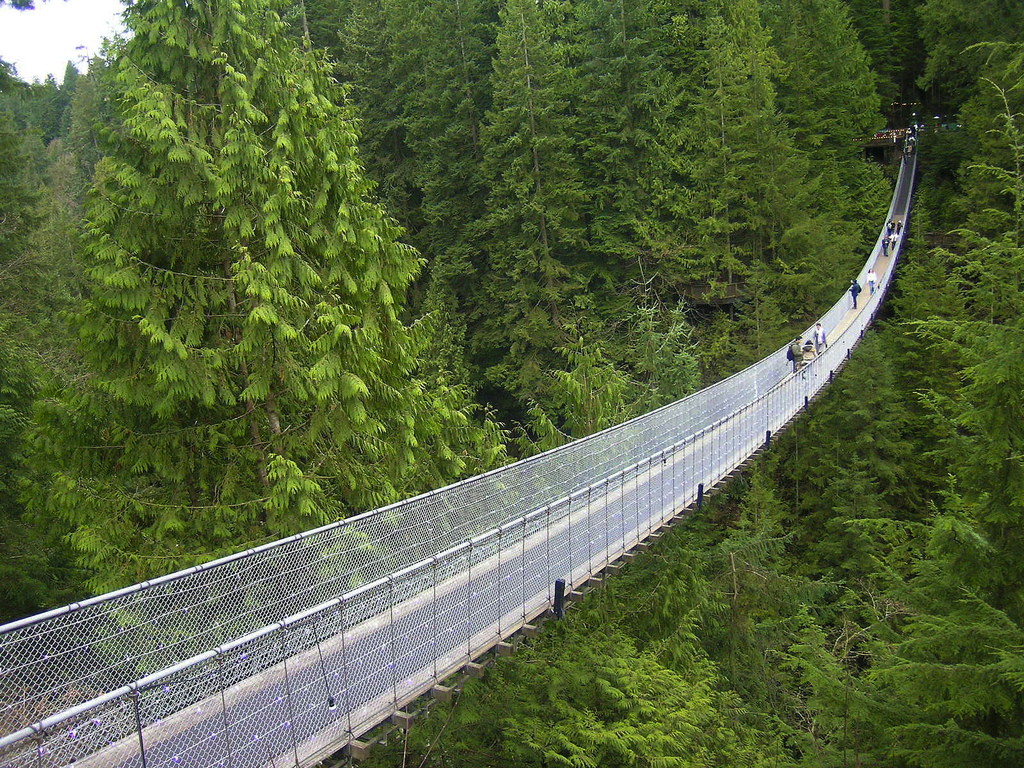
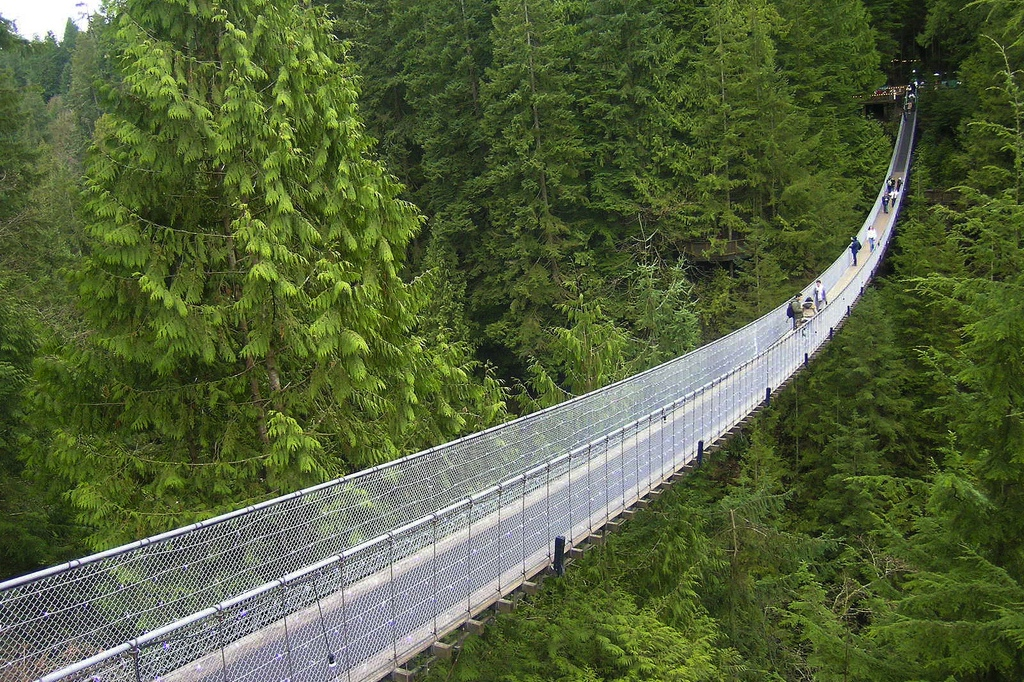
fixed image size

diff --git a/app/scripts/controllers/about.js b/app/scripts/controllers/about.js
@@ -4,7 +4,7 @@
          var imageArray = [
            {
              'title': 'Buchanan Street in Glasgow',
-             'url': 'images/buchanan_glas.jpg'
+             'url': 'images/buchanan_glas.jpg',
            },
            {
              'title': 'Capilano Suspension Bridge in Vancouver',
@@ -15,40 +15,36 @@
              'url': 'images/catstreet_tokyo.jpg'
            },
            {
-             'title': 'Stroeget in Copenhagen',
-             'url': 'images/cph2014.jpg'
+             'title': 'Essaouira, Morocco',
+             'url': 'images/CEH1NB.jpg'
            },
            {
              'title': 'Placa in Dubrovnik',
              'url': 'images/dubrovnik.jpg'
            },
            {
-             'title': 'Fez',
+             'title': 'Fez el Bali, Morocco',
              'url': 'images/fez.jpg'
            },
            {
-             'title': 'Jinli in Chengdu',
-             'url': 'images/jinli.jpg'
+             'title': 'Jinli in Chengdu, Sichuan, China',
+             'url': 'images/jinli_chengdu.jpg'
            },
            {
-             'title': 'Cat Street in Tokyo',
+             'title': 'Cat Street (Shibuya) in Tokyo',
              'url': 'images/catstreet_tokyo.jpg'
+           },
+           {
+             'title': 'Cat Street (Shibuya) in Tokyo',
+             'url': 'images/cat2.jpg'
            },
            {
              'title': 'Lynn Canyon Suspension Bridge in Vancouver',
              'url': 'images/lynncanyon_vanc.jpg'
            },
            {
-             'title': 'Jemna al Fna in Marrakech',
+             'title': 'Souk in the Medina, Marrakech',
              'url': 'images/marrakech.jpg'
-           },
-           {
-             'title': 'Plaka in Athens',
-             'url': 'images/plaka-athens.jpg'
-           },
-           {
-             'title': 'Plaka in Athens',
-             'url': 'images/plaka.jpg'
            },
            {
              'title': 'Royal Mile in Edinburgh',
@@ -59,16 +55,68 @@
              'url': 'images/simonedebeauvoir.jpg'
            },
            {
-             'title': 'Place Massena in Nice',
+             'title': 'Place Massena in Nice, France',
              'url': 'images/massena.jpg'
            },
            {
-             'title': 'Place Massena in Nice',
-             'url': 'images/massena-nice-1.jpg'
+             'title': 'Palazzo Re Enzo, Bologna',
+             'url': 'images/bologna.jpg'
            },
            {
              'title': 'Place Massena in Nice',
              'url': 'images/massena.jpg'
+           },
+            {
+              'title': 'Vienna, Austria',
+              'url': 'images/vienna.jpg'
+            },
+            {
+              'title': 'Amsterdam',
+              'url': 'images/amster.jpg'
+            },
+            {
+              'title': 'Place Massena in Nice, France',
+              'url': 'images/massena-nice-1.jpg'
+            },
+            {
+              'title': 'Khan el Khalili Bazaar, Cairo',
+              'url': 'images/cairo.jpg'
+            },
+            {
+              'title': 'Cat Street - Shibuya - Tokyo',
+              'url': 'images/cat2.jpg'
+            },
+            {
+              'title': 'The High Line, NYC',
+              'url': 'images/highline.jpg'
+            },
+            {
+              'title': 'Galata in Istanbul, Turkey',
+              'url': 'images/istanbul.jpg'
+            },
+            {
+              'title': 'Lincoln Road in Miami',
+              'url': 'images/miami.jpg'
+            },
+            {
+              'title': 'Mykonos, Greece',
+              'url': 'images/mykonos.jpg'
+            },
+            {
+              'title': 'Las Ramblas in Barcelona',
+              'url': 'images/ramblas.jpg'
+            },
+            {
+              'title': 'The Spanish Steps in Rome',
+              'url': 'images/rome.jpg'
+            },
+            {
+              'title': 'Piazzo del Campo in Siena, Italy',
+              'url': 'images/siena.jpg'
+            },
+            {
+              'title': 'Seaside Promenade in Split, Croatia',
+              'url': 'images/split.jpg'
             }
          ];
 

diff --git a/app/views/about.html b/app/views/about.html
@@ -1,30 +1,25 @@
 <!-- <html>
 <body> -->
   <div>
-    <h2>Image of the Day<small>Pedestrian Zones<small></h2>
-    <h3>Examples of global pedestrian-friendly places</h3>
+    <h2><a class="href" href="https://en.wikipedia.org/wiki/List_of_car-free_places">Inspiring pedestrian zones
+      <p><a class="btn btn-primary" ng-click="refreshFlickr()">Another</a></p>
+    </a></h2>
   </div>
 
-    <!-- <div ng-controller="AboutCtrl"> -->
-      <img ng-src="{{featuredImage.url}}" class="massena" width='600' height='600'alt="Image of {{ featuredImage.title }}"/>
+  <div>
+    <div ng-controller="AboutCtrl">
+    <div class="frame">
       <p class="tBlock"> {{featuredImage.title}} </p>
-      </a>
-      <p><a class="btn btn-primary" ng-click="refreshFlickr()"> Another</a></p>
-  <!-- </div> -->
+      <img ng-src="{{featuredImage.url}}" class="massena" alt=Image of "{{ featuredImage.title }}"/>
+    </div>
+  </div>
+  </div>
 
   <div>
     <div class="flyout">
-    <button class="myzones"><a href="#/">Main</a></button>
-    <button class="flyout-toggle"><a href="#/map">Map</a></button>
+    <!-- <button class="myzones"><a href="#/">Main</a></button> -->
+      <button class="flyout-toggle"><a href="#/">Main</a></button>
     <div class="flyout-content"></div>
   </div>
-<!-- navig
 
-
-
-          <!-- <p class="displayText">{{displayText}}</p>
-      </div> -->
-
-
-        <!-- <p class="displayText">{{displayText}}</p> -->
-      <!-- <a><img  ng-src="{{myPicture}}" class="massena" width='600' height='600'></a> -->
+  <!-- <img ng-src="{{featuredImage.url}}" class="massena" alt=Image of "{{ featuredImage.title }}"/> -->

diff --git a/app/styles/main.scss b/app/styles/main.scss
@@ -27,19 +27,46 @@ body {
   background: gray;
   padding-bottom: 15px;
 }
-// .frame {
-//   background: blue;
-  // padding-bottom: 15px;
-// }
+
 // View - About
+.frame {
+  background: lightgray;
+  margin-bottom: 10px;
+}
 .massena {
-    width: 80%;
+    // width: auto;
+    margin-top: 20px;
+    // margin-bottom: 10px;
+    padding-top: 0;
+    margin-left:auto;
+    margin-right:auto;
+    padding-bottom: 50px;
     height: auto;
-    padding: 20px;
-    margin-left: 90px;
-    z-index: -1;
-    margin-top: -85px
+    width: auto;
+    display: block;
+    // margin-left: auto;
+    // margin-right: auto;
+    // display: block;
+    // padding: 20px;
+    // margin-left: 25%;
+    // z-index: -1;
+    // margin-top: -85px
     // background-color: green;
+}
+
+p.tBlock {
+  text-align: center;
+  font-size: 2.8em;
+  letter-spacing: 1.2;
+  padding-top: 20px;
+  margin-top: 0;
+  font-color: yellow;
+  font-family: 'Calligraffitti';
+}
+ :hover a.href{
+  	font-color: yellow;
+    text-decoration: none;
+
 }
 
 // #map {
@@ -90,7 +117,6 @@ h3 {
     background: cornflowerblue;
     border: solid #fff 2px;
     letter-spacing: 3px;
-    font: white;
 }
 .myzones {
     position: absolute;

diff --git a/app/views/map.html b/app/views/map.html
@@ -1,18 +1,18 @@
 <!-- <html>
 <body> -->
-<!-- <div id="map">
+<div id="map">
   <h2>MAP OF PEDESTRIAN ZONE DATA</h2>
-  <h3>Mapping the coordinates of the most recent images tagged "pedestrian zone" <br> using data generated from a Flickr API</h3> -->
+  <h3>Mapping the coordinates of the most recent images tagged "pedestrian zone" <br> using data generated from a Flickr API</h3>
 
   <div>
     <div class="flyout">
-    <button class="myzones"><a href="#/about">About</a></button>
+    <!-- <button class="myzones"><a href="#/about">About</a></button> -->
     <button class="flyout-toggle"><a href="#/">Main</a></button>
     <div class="flyout-content"></div>
   </div>
 
 <div ng-controller="MapCtrl as vm">
-  <ng-map zoom="8" center="[40.74, -74.18]" default-style="false" class="my-map">
+  <ng-map zoom="3" center="[43.697205, 7.270596]" default-style="false" class="my-map">
 
     <marker ng-repeat="p in vm.positions track by $index"
       id="custom-marker-{{$index}}"

diff --git a/app/scripts/services/flickr.js b/app/scripts/services/flickr.js
@@ -13,7 +13,7 @@
      // ...
 
      // Public API here
-     return $resource('https://api.flickr.com/services/rest/?method=flickr.photos.search&api_key=f90b0fdc1b04e6c99b933cddf84d6560&tags=pedestrian+zone,pedestrian+bridge-portrait,footbridge,pedestrian+precinct&extras=geo,tags,url_m&format=json&nojsoncallback=1', {}, {
+     return $resource('https://api.flickr.com/services/rest/?method=flickr.photos.search&api_key=f90b0fdc1b04e6c99b933cddf84d6560&tags=footbridge,pedestrian+zone&extras=geo,tags,url_m&format=json&nojsoncallback=1', {}, {
     //  return $resource('http://api.flickr.com/services/rest/?&method=flickr.people.getPublicPhotos&api_key=f90b0fdc1b04e6c99b933cddf84d6560&user_id=21679005@N07', {}, {
        query: {
          method:'GET',
